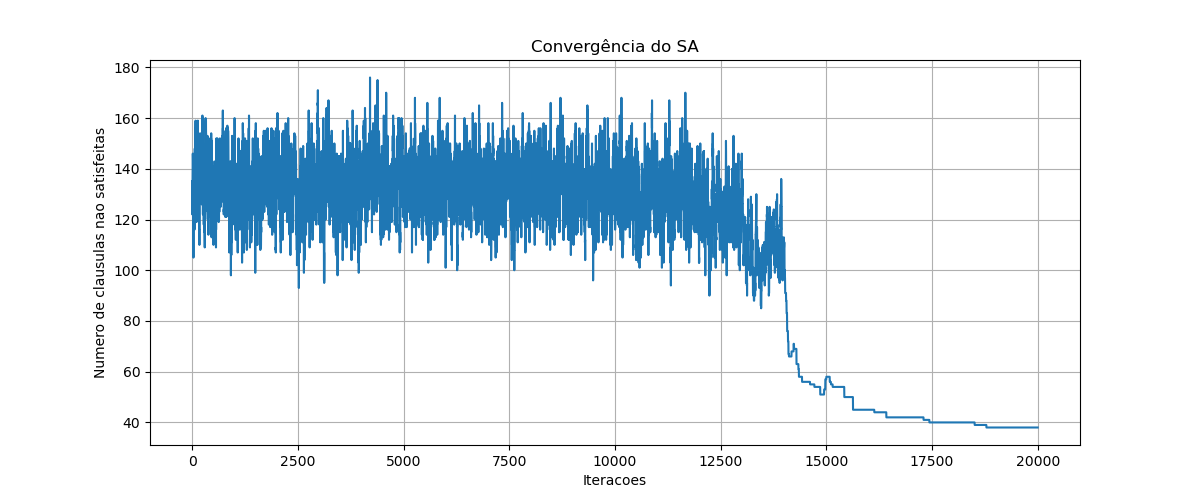
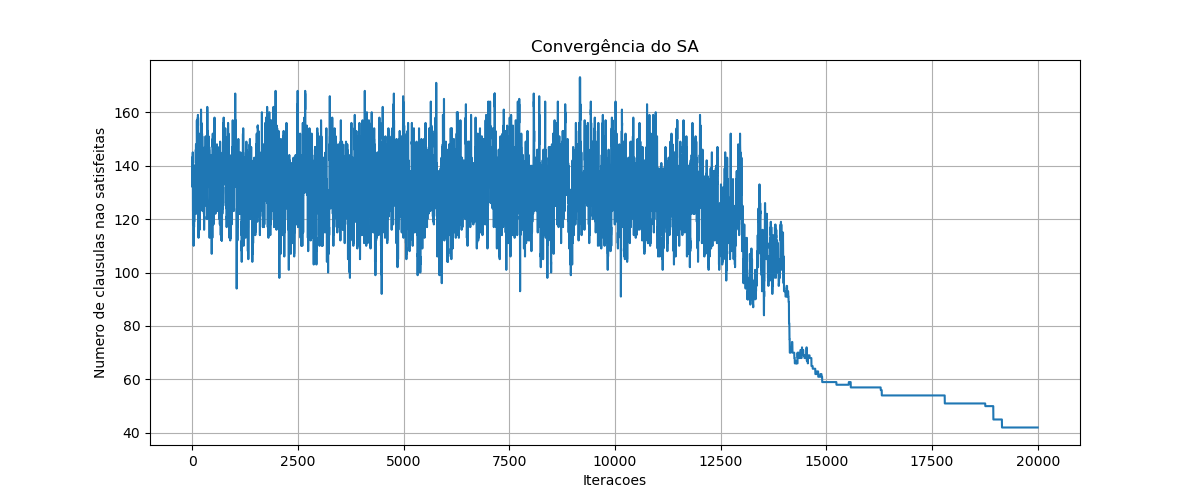
a

diff --git a/sat/sat.py b/sat/sat.py
@@ -1,0 +1,143 @@
+import random
+import math
+import matplotlib.pyplot as plt
+
+def ler_instancia(arquivo):
+    clausulas = []
+    numeroLiterais = 0
+    with open(arquivo, 'r') as f:
+        for linha in f:
+            if linha.startswith('c') or linha.startswith('0') or linha.startswith('%') or linha.startswith('\n'):
+                continue
+            if linha.startswith('p'):
+                linha = linha.split()
+                numeroLiterais = int(linha[2])
+                #print(numeroLiterais)
+                continue
+            else:
+                clausula = [int(x) for x in linha.strip().split()]
+            #print(clausula)
+            
+            if clausula[-1] == 0:
+                clausula.pop()
+            clausulas.append(clausula)
+    return clausulas, numeroLiterais
+
+def gerar_solucao_aleatoria(n_variaveis):
+    return [random.choice([True, False]) for _ in range(n_variaveis)]
+
+def calcular_clausulas_nao_satisfeitas(clausulas, solucao):
+    nao_satisfeitas = 0
+    for clausula in clausulas:
+        satisfeita = False
+        for literal in clausula:
+            var_index = abs(literal) - 1
+            if (literal > 0 and solucao[var_index]) or (literal < 0 and not solucao[var_index]):
+                satisfeita = True
+                break
+        if not satisfeita:
+            nao_satisfeitas += 1
+    return nao_satisfeitas
+
+# Rotina para geração de vizinho
+def gerar_vizinho(solucao, percentual_modificacao=0.05):
+    n_variaveis = len(solucao)
+    n_bits_flip = max(1, int(percentual_modificacao * n_variaveis))  # Define a quantidade de bits a serem modificados (pelo menos 1)
+    
+    nova_solucao = solucao[:]
+    indices_modificados = random.sample(range(n_variaveis), n_bits_flip)  # Escolhe aleatoriamente quais bits serão modificados
+    
+    for indice in indices_modificados:
+        nova_solucao[indice] = not nova_solucao[indice]  # Bit-flip (muda o bit de True para False ou vice-versa)
+    
+    return nova_solucao
+
+def temperatura_atual(T, it, itMax, t, T0):
+    return T * (1 - it/itMax)**t
+
+def simulated_annealing(clausulas, n_variaveis, T0, itMax, t, SAmAx):
+    solucao_atual = gerar_solucao_aleatoria(n_variaveis)
+    melhor_solucao = solucao_atual[:]
+    
+    f_atual = calcular_clausulas_nao_satisfeitas(clausulas, solucao_atual)
+    f_melhor = f_atual
+
+    historico_f_objetivo = [f_atual]
+    historico_temperatura = [T0]
+
+    T = T0
+    iteracoes = 0
+    
+    while iteracoes < itMax and T > 0.0001:
+        iterT = 0
+        
+        while iterT < SAmAx:
+            iterT += 1
+            iteracoes += 1
+            
+            #gera vizinho e sua funcao
+            vizinho = gerar_vizinho(solucao_atual)
+            f_vizinho = calcular_clausulas_nao_satisfeitas(clausulas, vizinho)
+            
+            delta = f_vizinho - f_atual
+            
+            # nova solução
+            if delta < 0:
+                solucao_atual = vizinho[:]
+                f_atual = f_vizinho
+                
+                # melhor solução
+                if f_vizinho < f_melhor:
+                    melhor_solucao = vizinho[:]
+                    f_melhor = f_vizinho
+            else:
+                if random.uniform(0, 1) < math.exp(-delta / T):
+                    solucao_atual = vizinho[:]
+                    f_atual = f_vizinho
+
+            #guarda para grafico
+            historico_f_objetivo.append(f_atual)
+        
+        #atualiza temp
+        T = temperatura_atual(T, iteracoes, itMax, t, T0)
+        
+        #guarda para grafico
+        historico_temperatura.append(T)
+    
+    return melhor_solucao, f_melhor, historico_f_objetivo, historico_temperatura
+
+if __name__ == "__main__":
+    arquivo_instancia = '/home/leonardo/Documentos/2024_02/IA/github/IA/sat/uf250-01.cnf'  # caminho
+    clausulas, numeroLiterais = ler_instancia(arquivo_instancia)
+    T0 = 10000
+    itMax = 40000
+    t = 3
+    SAmAx = 1000
+
+    solucao_final, valor_otimo, historico_f_objetivo, historico_temperatura = simulated_annealing(clausulas, numeroLiterais, T0, itMax, t, SAmAx)
+    
+    #print(f"Solucao otima: {solucao_final}")
+    print(f"Número de cláusulas não satisfeitas: {valor_otimo}")
+    
+    # Plotar o gráfico de convergência
+    plt.figure(figsize=(12, 5))
+
+    # Gráfico 1: Convergência do Simulated Annealing
+    plt.plot(historico_f_objetivo)
+    plt.title('Convergência do SA')
+    plt.xlabel('Iteracoes')
+    plt.ylabel('Numero de clausulas nao satisfeitas')
+    plt.grid(True)
+    
+    plt.savefig('simulated_annealing_convergence.png')
+    #plt.show()
+
+    # Gráfico 2: Queda da temperatura
+    plt.plot(historico_temperatura)
+    plt.title('Queda de temperatura durante SA')
+    plt.xlabel('Iteracoes')
+    plt.ylabel('Temperatura')
+    plt.grid(True)
+
+    plt.savefig('simulated_annealing_temperatura.png')
+    #plt.show()
